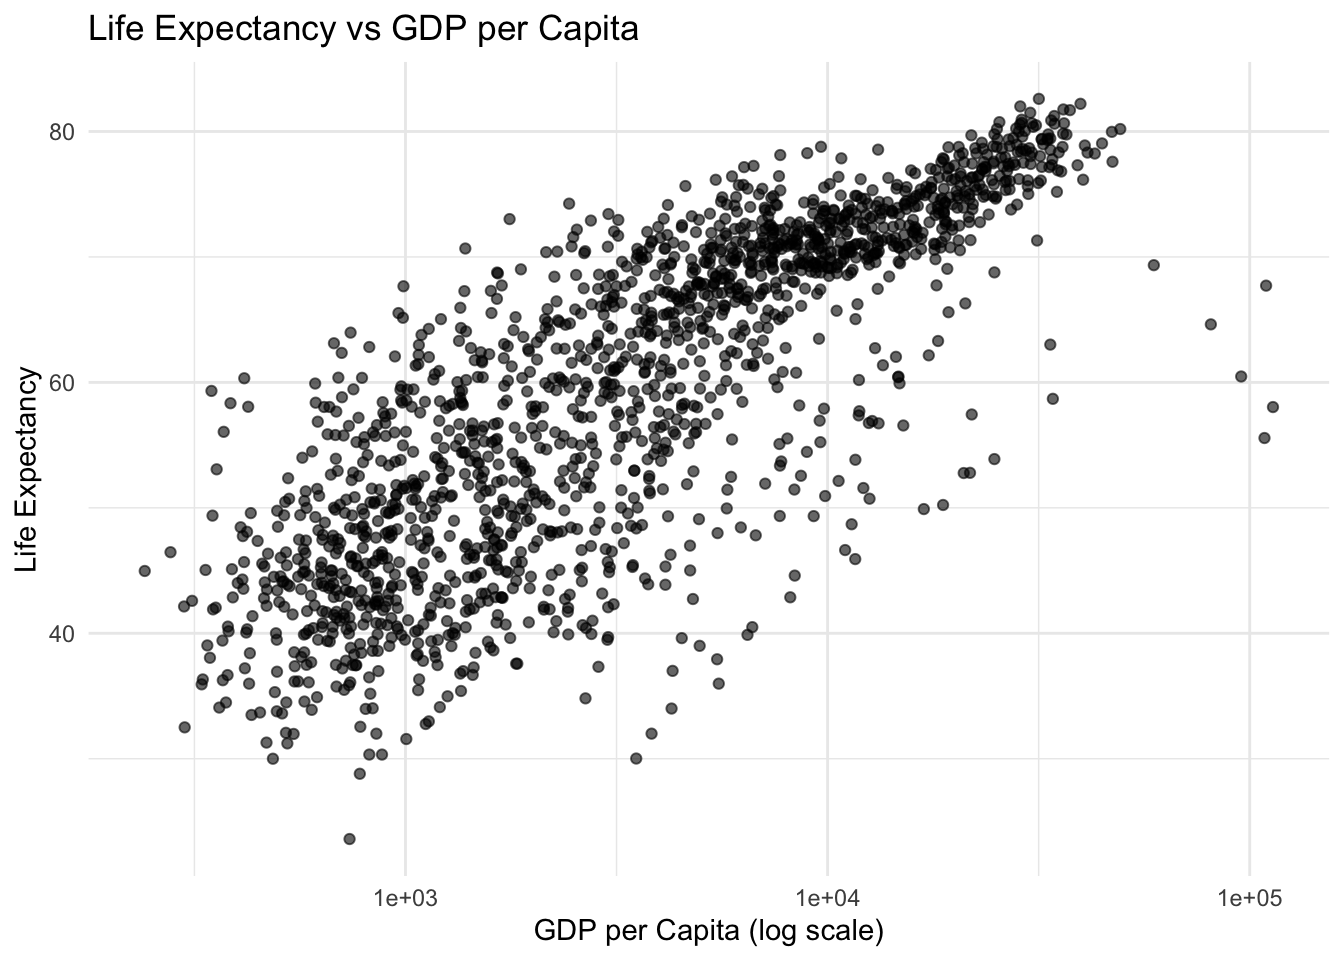
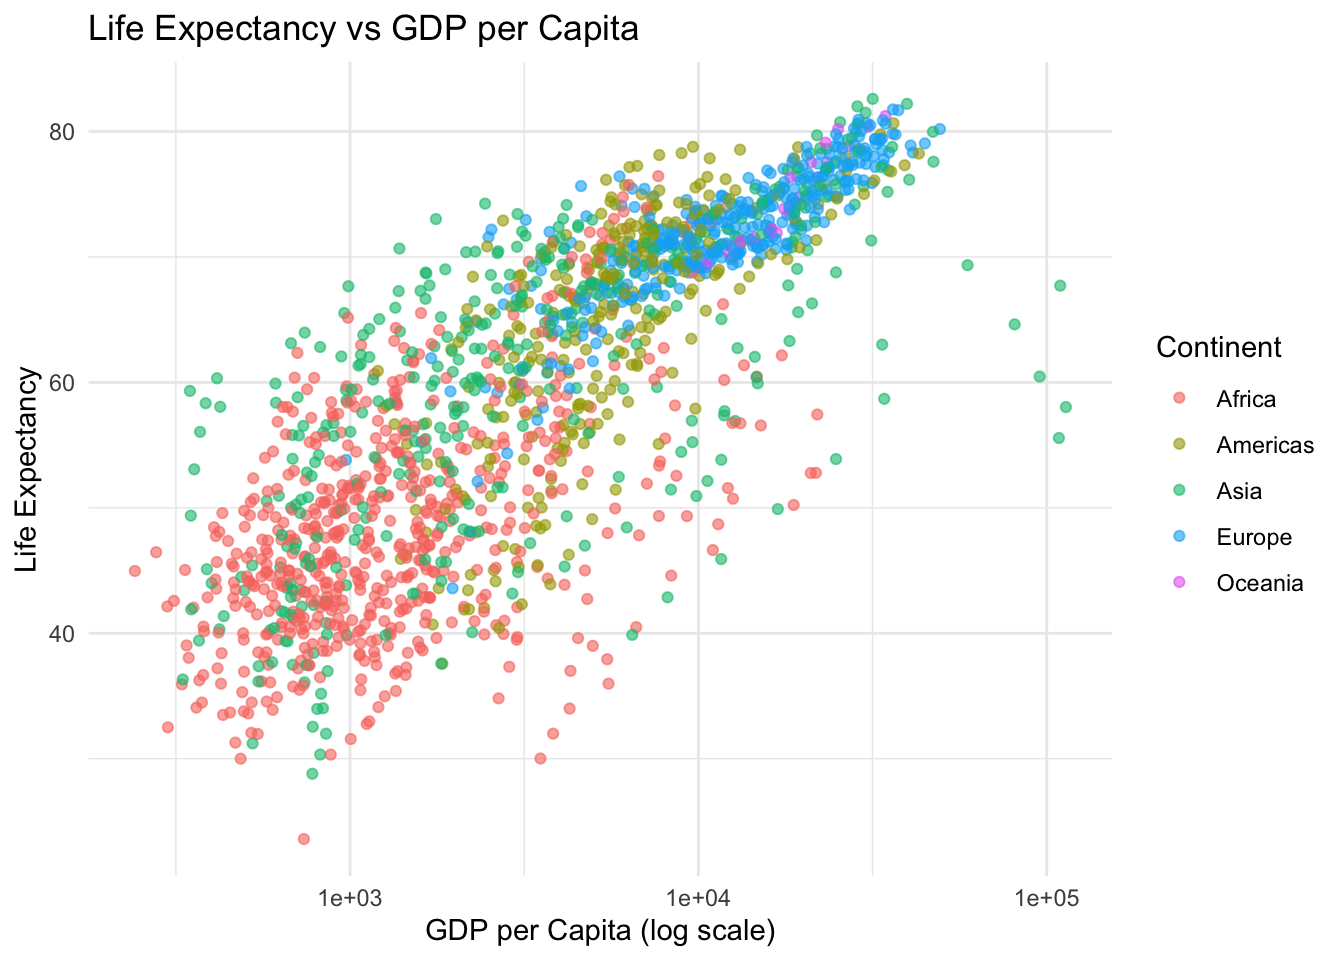
quiz_2

diff --git a/docs/life-gdp.html b/docs/life-gdp.html
@@ -197,15 +197,18 @@ pre > code.sourceCode > span > a:first-child::before { text-decoration: underlin
 <div class="code-copy-outer-scaffold"><div class="sourceCode cell-code" id="cb2"><pre class="sourceCode r code-with-copy"><code class="sourceCode r"><span id="cb2-1"><a href="#cb2-1" aria-hidden="true" tabindex="-1"></a>gapminder <span class="ot">&lt;-</span> <span class="fu">read.csv</span>(<span class="st">"gapminder.csv"</span>)</span></code></pre></div><button title="Copy to Clipboard" class="code-copy-button"><i class="bi"></i></button></div>
 </div>
 <div class="cell">
-<div class="code-copy-outer-scaffold"><div class="sourceCode cell-code" id="cb3"><pre class="sourceCode r code-with-copy"><code class="sourceCode r"><span id="cb3-1"><a href="#cb3-1" aria-hidden="true" tabindex="-1"></a><span class="fu">ggplot</span>(gapminder, <span class="fu">aes</span>(<span class="at">x =</span> gdp_per_capita, <span class="at">y =</span> life_expectancy)) <span class="sc">+</span></span>
-<span id="cb3-2"><a href="#cb3-2" aria-hidden="true" tabindex="-1"></a>  <span class="fu">geom_point</span>(<span class="at">alpha =</span> <span class="fl">0.6</span>) <span class="sc">+</span></span>
-<span id="cb3-3"><a href="#cb3-3" aria-hidden="true" tabindex="-1"></a>  <span class="fu">scale_x_log10</span>() <span class="sc">+</span></span>
-<span id="cb3-4"><a href="#cb3-4" aria-hidden="true" tabindex="-1"></a>  <span class="fu">labs</span>(</span>
-<span id="cb3-5"><a href="#cb3-5" aria-hidden="true" tabindex="-1"></a>    <span class="at">title =</span> <span class="st">"Life Expectancy vs GDP per Capita"</span>,</span>
-<span id="cb3-6"><a href="#cb3-6" aria-hidden="true" tabindex="-1"></a>    <span class="at">x =</span> <span class="st">"GDP per Capita (log scale)"</span>,</span>
-<span id="cb3-7"><a href="#cb3-7" aria-hidden="true" tabindex="-1"></a>    <span class="at">y =</span> <span class="st">"Life Expectancy"</span></span>
-<span id="cb3-8"><a href="#cb3-8" aria-hidden="true" tabindex="-1"></a>  ) <span class="sc">+</span></span>
-<span id="cb3-9"><a href="#cb3-9" aria-hidden="true" tabindex="-1"></a>  <span class="fu">theme_minimal</span>()</span></code></pre></div><button title="Copy to Clipboard" class="code-copy-button"><i class="bi"></i></button></div>
+<div class="code-copy-outer-scaffold"><div class="sourceCode cell-code" id="cb3"><pre class="sourceCode r code-with-copy"><code class="sourceCode r"><span id="cb3-1"><a href="#cb3-1" aria-hidden="true" tabindex="-1"></a><span class="fu">ggplot</span>(gapminder, <span class="fu">aes</span>(<span class="at">x =</span> gdp_per_capita, </span>
+<span id="cb3-2"><a href="#cb3-2" aria-hidden="true" tabindex="-1"></a>                      <span class="at">y =</span> life_expectancy,</span>
+<span id="cb3-3"><a href="#cb3-3" aria-hidden="true" tabindex="-1"></a>                      <span class="at">color =</span> continent)) <span class="sc">+</span></span>
+<span id="cb3-4"><a href="#cb3-4" aria-hidden="true" tabindex="-1"></a>  <span class="fu">geom_point</span>(<span class="at">alpha =</span> <span class="fl">0.6</span>) <span class="sc">+</span></span>
+<span id="cb3-5"><a href="#cb3-5" aria-hidden="true" tabindex="-1"></a>  <span class="fu">scale_x_log10</span>() <span class="sc">+</span></span>
+<span id="cb3-6"><a href="#cb3-6" aria-hidden="true" tabindex="-1"></a>  <span class="fu">labs</span>(</span>
+<span id="cb3-7"><a href="#cb3-7" aria-hidden="true" tabindex="-1"></a>    <span class="at">title =</span> <span class="st">"Life Expectancy vs GDP per Capita"</span>,</span>
+<span id="cb3-8"><a href="#cb3-8" aria-hidden="true" tabindex="-1"></a>    <span class="at">x =</span> <span class="st">"GDP per Capita (log scale)"</span>,</span>
+<span id="cb3-9"><a href="#cb3-9" aria-hidden="true" tabindex="-1"></a>    <span class="at">y =</span> <span class="st">"Life Expectancy"</span>,</span>
+<span id="cb3-10"><a href="#cb3-10" aria-hidden="true" tabindex="-1"></a>    <span class="at">color =</span> <span class="st">"Continent"</span></span>
+<span id="cb3-11"><a href="#cb3-11" aria-hidden="true" tabindex="-1"></a>  ) <span class="sc">+</span></span>
+<span id="cb3-12"><a href="#cb3-12" aria-hidden="true" tabindex="-1"></a>  <span class="fu">theme_minimal</span>()</span></code></pre></div><button title="Copy to Clipboard" class="code-copy-button"><i class="bi"></i></button></div>
 <div class="cell-output-display">
 <div>
 <figure class="figure">
